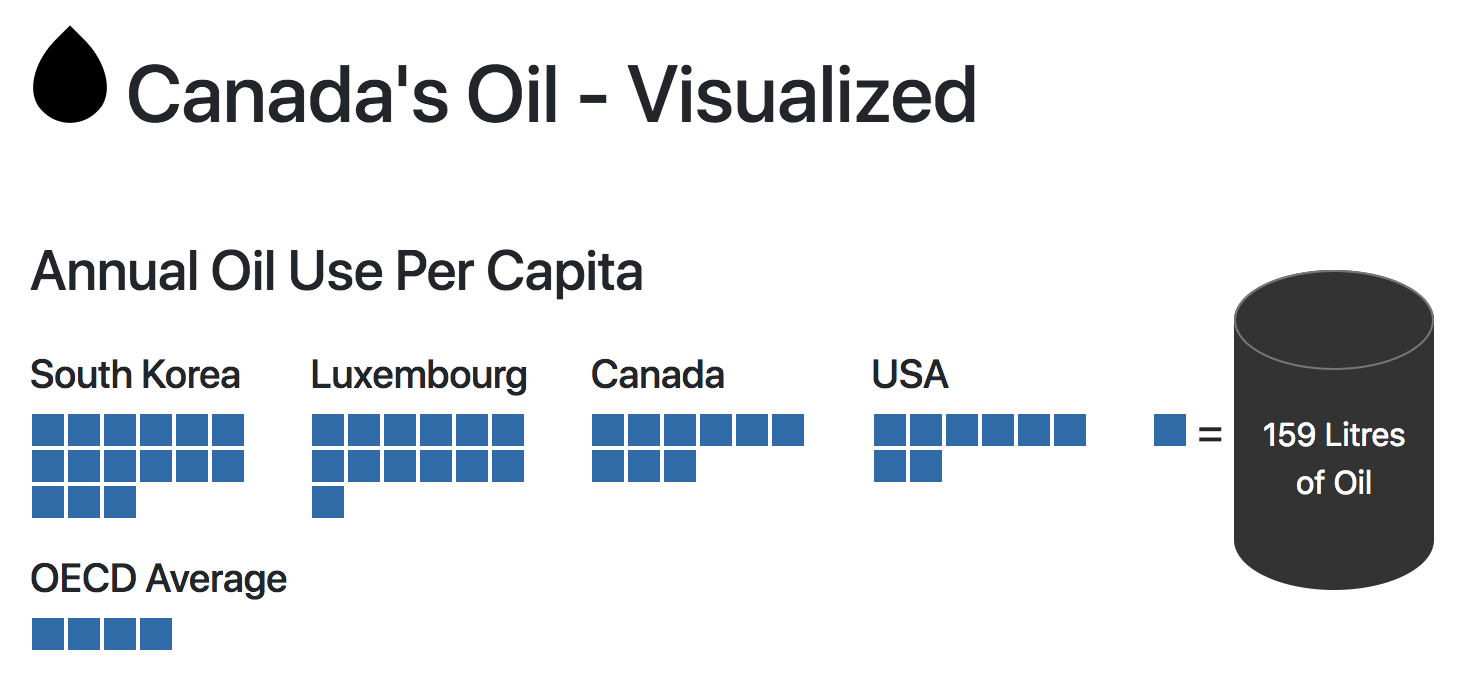
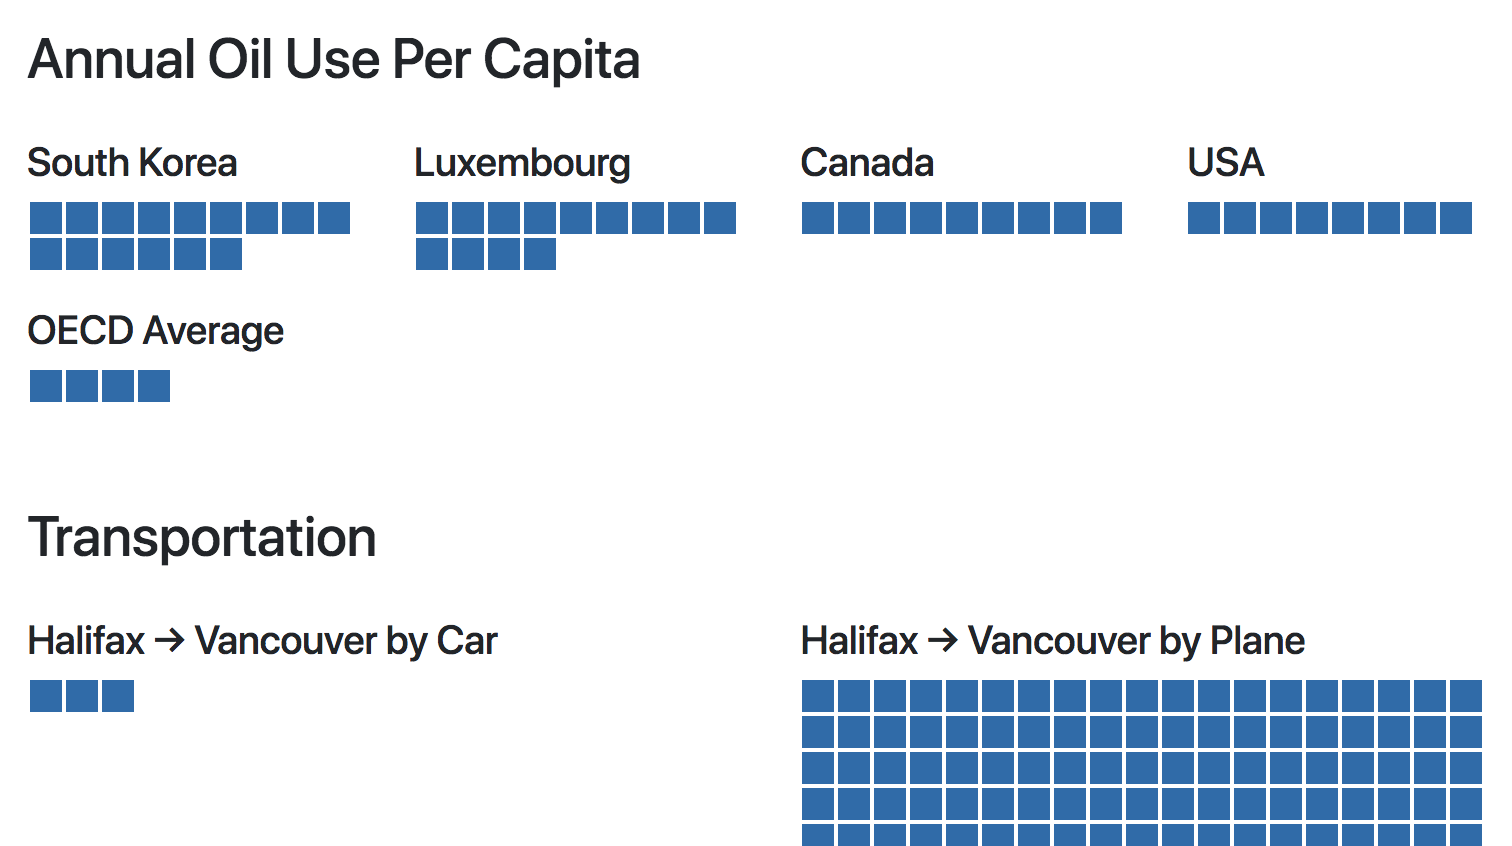
tweaks

diff --git a/index.html b/index.html
@@ -4,8 +4,8 @@
 <head>
   <meta charset="utf-8">
   <meta http-equiv="x-ua-compatible" content="ie=edge">
-  <title>Canada's Oil - Visualized</title>
-  <meta name="description" content="Canada is one of the biggest oil users in the world. This infographic visualizes the scale of Canada's oil consumption, transport, and production.">
+  <title>Canada's Oil By Volume</title>
+  <meta name="description" content="Canada is one of the biggest oil users in the world. This infographic visualizes the scale of Canada's oil production, transport, and consumption.">
   <meta name="viewport" content="width=device-width, initial-scale=1, shrink-to-fit=no">
 
   <meta name="twitter:card" content="summary">
@@ -163,16 +163,16 @@
 
 <body>
     <div class="viz-container">
-      <h1><span class="tear"></span>Canada's Oil</h1>
+      <h1><span class="tear"></span>Canada's Oil By Volume</h1>
       
       <div class="row scale-1 lede-header">
-        <div class="col-md-5">
+        <div class="col-md-8 col-sm-8">
           <h2>Barrels of Oil</h2>
-          <p>This infographic illustrates the volumes of oil we produce, spill, and consume in Canada. Each square <span class="block"></span> in this section represents a single barrel of oil.
-            As you scroll down, we'll switch to larger <span class="block block-1000"></span> and larger <span class="block block-1000000"></span> and larger <span class="block block-1000000000"></span> orders of magnitude. This visualization heavily cribs from The Visual Capitalist's <a href="http://www.visualcapitalist.com/worlds-money-markets-one-visualization-2017/">All the World's Money</a>.
+          <p>This infographic illustrates the volumes of oil we produce, ship, spill, and consume in Canada. Each square <span class="block"></span> in this section represents a single barrel of oil.
+            As you scroll down, we'll switch to larger <span class="block block-1000"></span>, larger <span class="block block-1000000"></span>, and larger <span class="block block-1000000000"></span> orders of magnitude. This visualization heavily cribs from The Visual Capitalist's <a href="http://www.visualcapitalist.com/worlds-money-markets-one-visualization-2017/">All the World's Money</a>.
           </p>
         </div>
-        <div class="col-md-3 text-right">
+        <div class="col-md-4 col-sm-4">
           <div class="legend-scale">
             <span class="block"></span>
             <span class="equals">=</span>
@@ -187,7 +187,7 @@
       <h3>Annual Oil Use Per Capita</h3>
       <div class="row scale-1">
         <!-- Countries -->
-        <div class="col-8">
+        <div class="col-md-8">
           <div class="row">
             <div class="col-md">
               <h5>South Korea</h5>
@@ -255,10 +255,11 @@
 
         
         <div class="row scale-1000">
-          <div class="col-4">
+          <div class="col-md-4 col-sm-6">
             <h2><strong>Thousands</strong><br/> of Barrels</h2>    
+            <p>Halifax &rarr; Quebec City by Cruise Ship = <span class="block"></span><span class="block"></span></p>
           </div>
-          <div class="col-md-4 text-right">
+          <div class="col-md-4 col-sm-6 text-right">
             <div class="legend-scale">
               <span class="block"></span>
               <span class="equals">=</span>
@@ -333,7 +334,7 @@
         <h3>Oil Spills</h3>
         <div class="row scale-1000">
           <!-- Spills -->
-          <div class="col-8">
+          <div class="col-md-8">
             <div class="row">
               <div class="col-md">
                 <h5>Trans Mountain Pipeline</h5>
@@ -379,10 +380,11 @@
 
         
         <div class="row scale-1000000">
-          <div class="col-md-4">
+          <div class="col-md-4 col-sm-6">
             <h2><strong>Millions</strong><br/> of Barrels</h2>
+            <p>Deepwater Horizon Spill = <span class="block"></span><span class="block"></span><span class="block"></span><span class="block"></span></p>
           </div>
-          <div class="col-md-4 text-right">
+          <div class="col-md-4 col-sm-6 text-right">
             <div class="legend-scale">
               <span class="block"></span>
               <span class="equals">=</span>
@@ -429,7 +431,7 @@
         <h3>Oil Production</h3>
         <div class="row scale-1000000">
           <!-- Production -->
-          <div class="col-8">
+          <div class="col-md-8">
             <h5>Oil volume transported per year by...</h5>
             <div class="row collapse-head">
               <div class="col-md">
@@ -467,10 +469,11 @@
         </div>
 
         <div class="row scale-1000000000">
-            <div class="col-md-4">
+            <div class="col-md-4 col-sm-6">
               <h2><strong>Billions</strong><br/> of Barrels</h2>
+              <p>Extracted in Canada / year = <span class="block"></span><span class="block block-half"></span></p>
             </div>
-            <div class="col-md-4 text-right">
+            <div class="col-md-4 col-sm-6 text-right">
               <div class="legend-scale">
                 <span class="block"></span>
                 <span class="equals">=</span>
@@ -517,7 +520,7 @@
           <h3>Oil Reserves</h3>
           <div class="row scale-1000000000">
             <div class="col-md-8">
-              <h5>Demand</h5>
+              <h5>World Demand in 2018</h5>
               <div id="demand-world" class="viz-box"></div>
             </div>
             <div class="col-md-4 legend">

diff --git a/style.css b/style.css
@@ -43,6 +43,9 @@ h5 {
 .lede-header h2 {
   margin-top: 2rem;
 }
+h2 + p {
+  margin-top: 1em;
+}
 
 .viz-box {
   line-height: 16px;
@@ -52,6 +55,10 @@ h5 {
   width: 16px;
   height: 16px;
   margin: 0 1px;
+}
+.block-half {
+  height: 8px;
+  margin-bottom: 8px;
 }
 
 
@@ -80,6 +87,9 @@ h5 {
 
 /* Grid legends */
 .legend-scale {
+  margin-top: 4em;
+}
+.lede-header .legend-scale {
   margin-top: 2em;
 }
 .legend-text {
